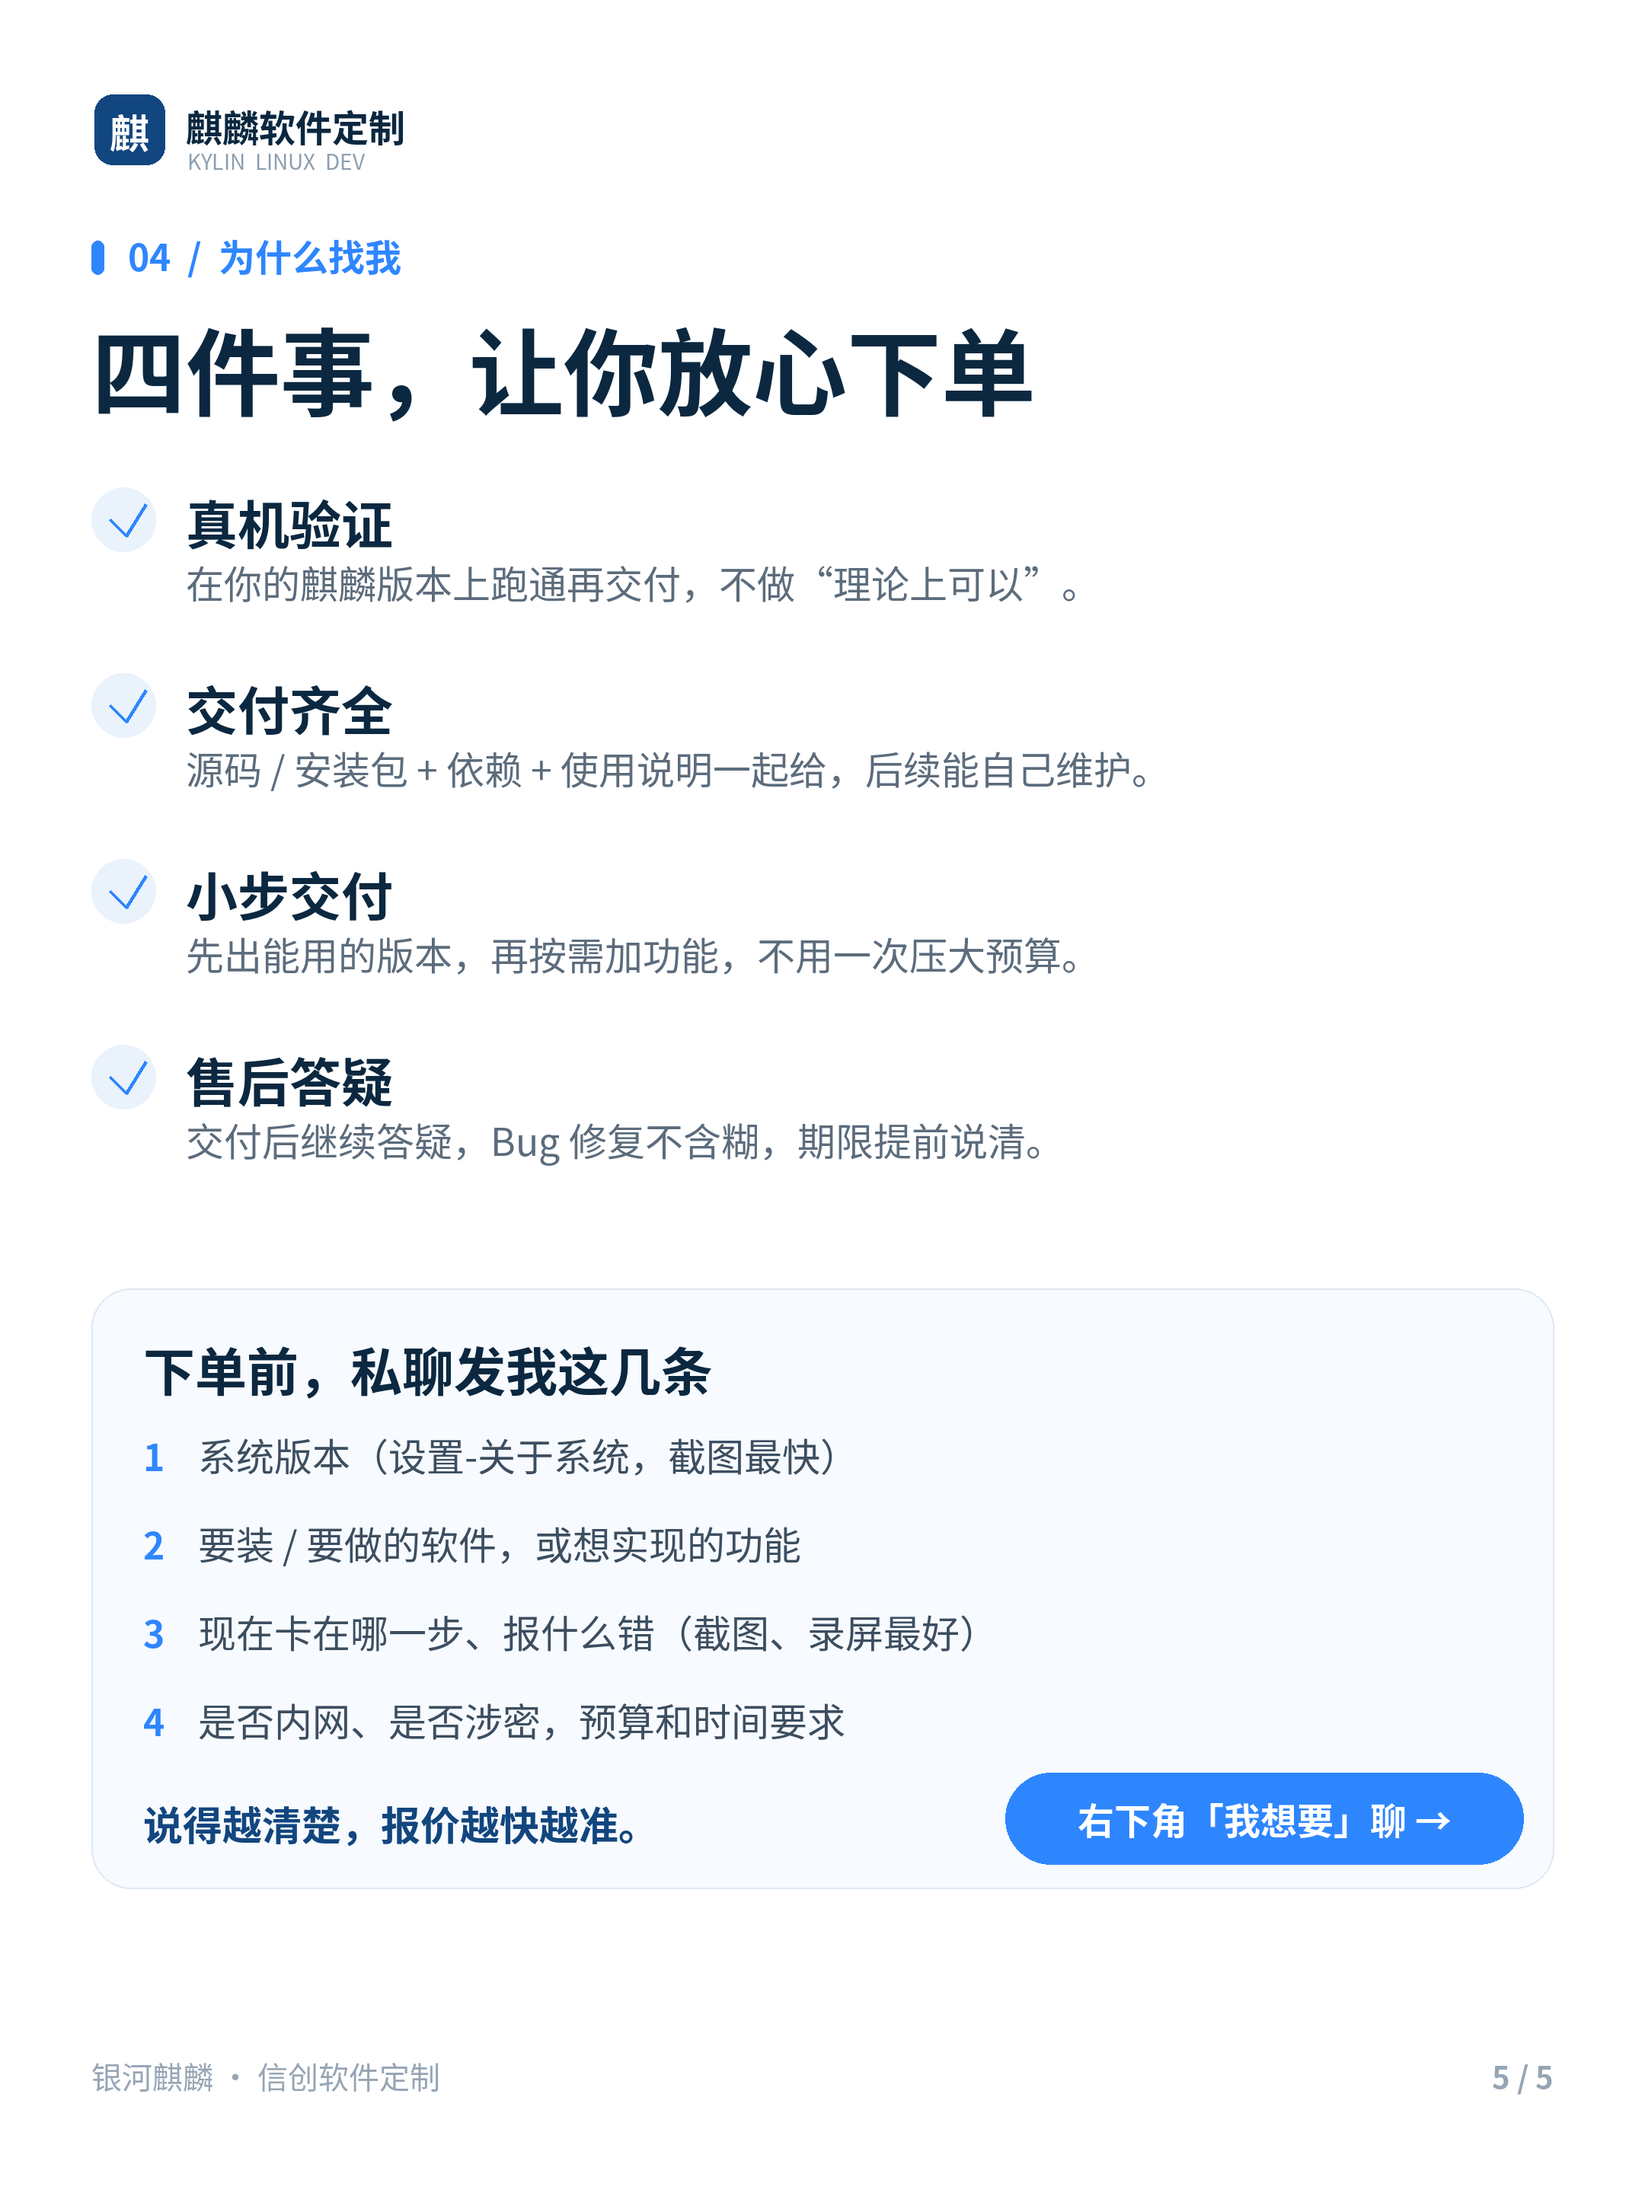
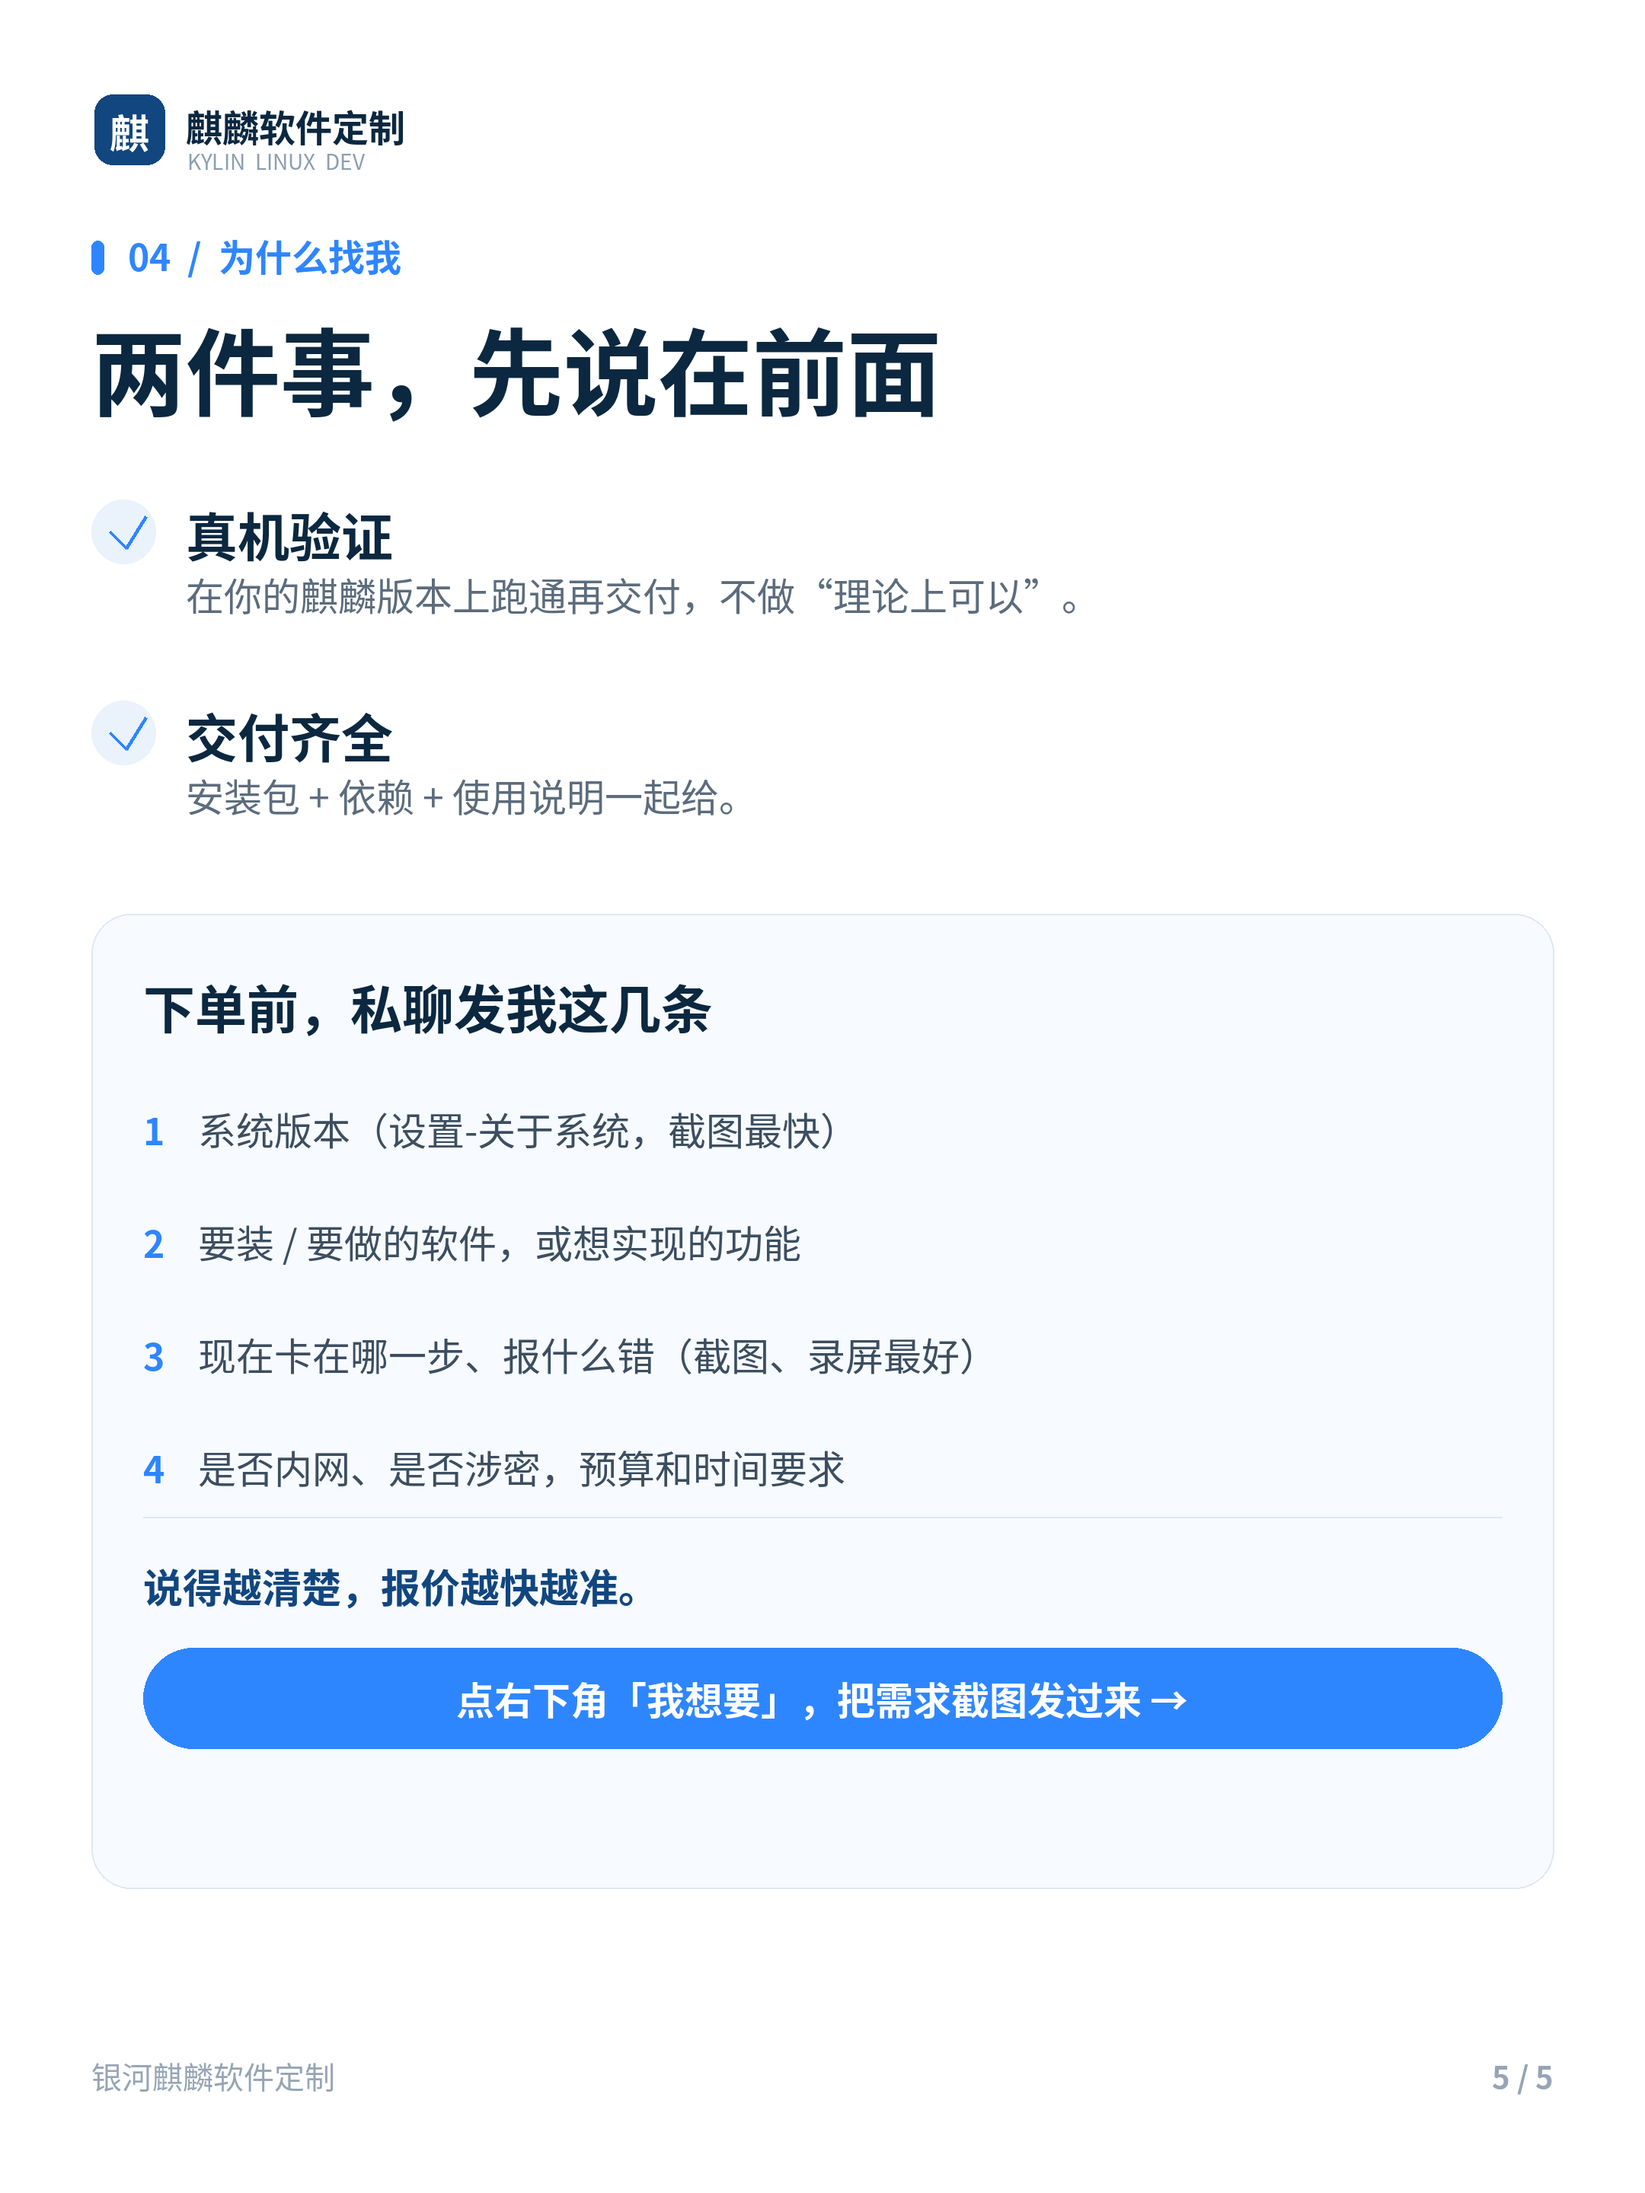
feat: 银河麒麟软件定制文案

diff --git a/银河麒麟闲鱼文案/闲鱼文案.md b/银河麒麟闲鱼文案/闲鱼文案.md
@@ -1,4 +1,4 @@
-# 闲鱼商品文案：银河麒麟 / 信创电脑软件定制
+# 闲鱼商品文案：银河麒麟 / 国产电脑软件定制
 
 配套图片：01-封面.png ～ 05-交付与下单须知.png（1080×1440，可直接上传）
 
@@ -6,33 +6,31 @@
 
 ## 一、标题（挑一条，控制在 30 字内）
 
-1. 银河麒麟软件定制｜信创国产电脑适配｜V10 桌面软件外设开发
-2. 麒麟系统软件定制｜国产电脑信创适配｜装不上用不了都能改
-3. 银河麒麟装不上软件？信创软件定制 + 外设对接 + 脚本工具
+1. 银河麒麟软件定制｜国产电脑适配｜V10 桌面软件外设开发
+2. 麒麟系统软件定制｜国产电脑适配｜装不上用不了都能改
+3. 银河麒麟装不上软件？软件定制 + 外设对接 + 排错
 
 ---
 
 ## 二、正文（可直接复制）
 
-单位配的银河麒麟电脑，软件装不上、打印机不认、Windows 老软件没替代？—— 我接麒麟系统上的软件定制与适配。
+国产化麒麟电脑，软件装不上、打印机不认、Windows 老软件没替代？—— 我接麒麟系统上的软件定制与适配。
 
 【能做什么】
 1. 桌面软件定制：Qt / Python 开发，原生跑在麒麟桌面版，界面按你的业务流程来
 2. 外设与硬件对接：打印机、扫码枪、读卡器、串口/网口设备、仪器数据采集
-3. Windows 软件迁移：老软件重做一版，或给可行替代方案，历史数据继续能用
+3. Windows 软件迁移：老软件重做一版，或给可行替代方案，用法尽量照旧
 4. 自动化小工具：Excel 批量处理、文件归档、定时任务、报表自动生成
-5. 内网系统对接：OA / 业务系统 / 数据库取数、大屏展示、批量导入导出
-6. 部署与培训：装包、配环境、写使用说明，教到你同事自己会用
+5. 数据迁移与转换：数据库 / 表格导出导入，乱码、错位、格式不对都能整
+6. 软件排错救急：装不上、跑不起来、报错看不懂，先修通再说
 
 【支持环境】
 · 系统：银河麒麟桌面版 V10（SP1/SP2）、银河麒麟服务器版；统信 UOS 也能做
-· 芯片：飞腾、鲲鹏、龙芯、海光、兆芯，x86 平台同样可做
 · 其他：Ubuntu / Debian 系 Linux 也接，版本不同先评估
 
 【怎么交付】
-沟通需求 → 方案 + 报价 → 开发联调 → 麒麟真机验证 → 交付源码/安装包 + 使用说明 → 后续答疑
-· 源码或安装包（含依赖）一并给，方便你单位后续维护
-· 先出能用的版本，再按需迭代，不用一次压大预算
+沟通需求 → 方案 + 报价 → 开发联调 → 麒麟真机验证 → 交付安装包 + 使用说明
+· 安装包（含依赖）和使用说明一起给
 · 做不了的会直说，不做"拍下再想想"的单
 
 【下单前请准备好】
@@ -45,11 +43,11 @@
 按功能复杂度和工时评估，私聊说清需求后给一口价，不玩"先拍再加工"。需求越清楚，报价越快越准。
 
 【适合谁】
-单位信息员、行政/财务、学校老师、小企业主，以及自己在用国产电脑被软件卡住的个人用户。
+自己在用国产电脑被软件卡住的个人用户、小企业主、行政财务、学校老师。
 
 有需求直接私聊，先发截图，我帮你看能不能做。
 
-#银河麒麟 #麒麟系统 #信创 #国产化替代 #Linux #软件定制 #软件开发 #信创适配 #桌面应用开发 #统信UOS
+#银河麒麟 #麒麟系统 #国产化 #Linux #软件定制 #软件开发 #桌面应用开发 #统信UOS #外设适配 #报错排查
 
 ---
 
@@ -68,4 +66,4 @@
 - 分类建议：二手 → 其他闲置 / 或"技能服务"下的软件开发类目；地区选你实际能上门的城市。
 - 描述里保留空行和【】小标题，闲鱼手机端阅读更清楚。
 - 价格填"元"时可用 1 元占位，正文写"先评估再报价"，避免被只砍价的买家缠住。
-- 图中的"售后答疑期限""是否可上门""是否开发票"请按你实际情况改：这些是承诺，写上去就要做到。
+- 文案里没有再承诺售后期限、上门服务和源码交付，如果这些你实际能提供，可以在私聊里说，不要写进正文。
